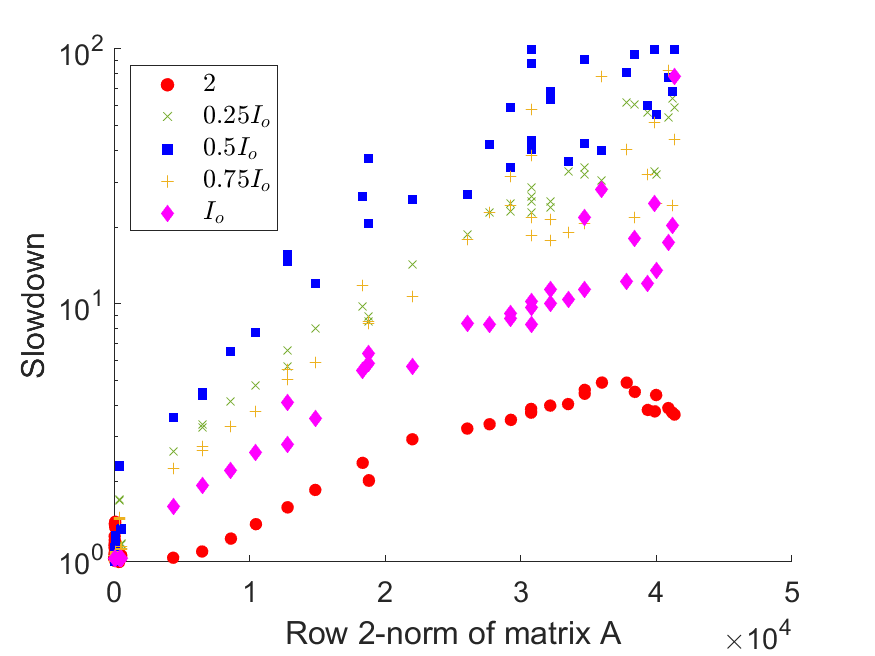
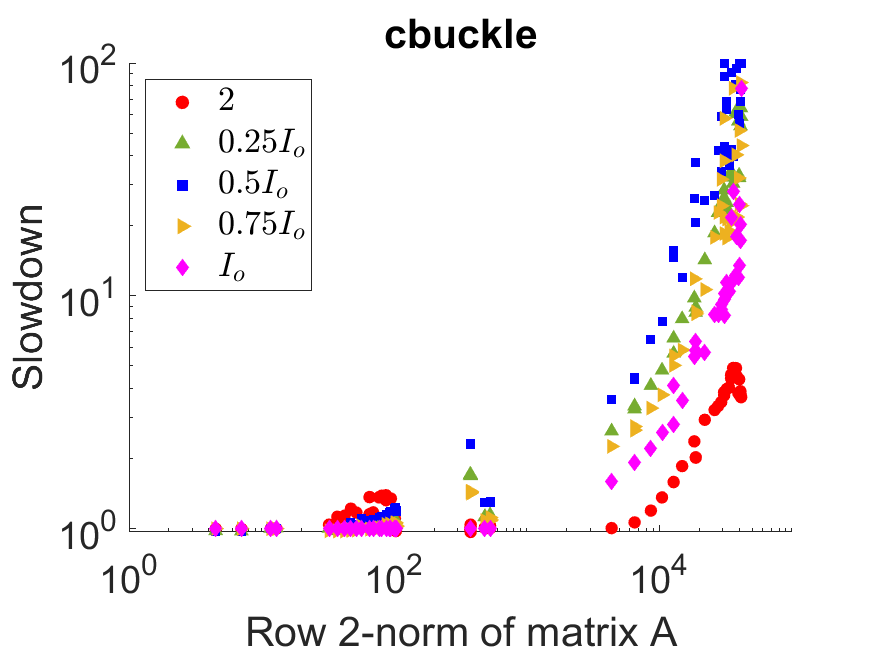
modified code and figure

diff --git a/Step6_correlate.m b/Step6_correlate.m
@@ -14,6 +14,7 @@ color = 'b';
 % matrices = {'bcsstk18'};
 % matrices = {'bcsstk18', 'thermal1', 'ct20stif', 'cbuckle'}; 
 matrices = {'cbuckle'};
+%matrices = {'bcsstk18'};
 num_matrices = length(matrices);
 
 % bitflip_iter = 1;
@@ -121,7 +122,7 @@ for m = 1:num_matrices
     hold on;
     disp_names = {'$2$', '$0.25I_o$', '$0.5I_o$', '$0.75I_o$', '$I_o$'}; 
     colors = {'r'; '#77AC30'; 'b'; '#EDB120'; 'm'};
-    markers = ['o'; 'x'; 's'; '+'; 'd']; 
+    markers = ['o'; '^'; 's'; '>'; 'd']; 
     index = 0;
     for i = injections
         index=index+1;
@@ -137,12 +138,14 @@ for m = 1:num_matrices
         %colororder(['r'; 'g'; 'b'; 'k'; 'm']);
 
         scatter(A_row_2norms, converge_ratios, mrk_size, markers(index), MarkerFaceColor=char(colors(index)), MarkerEdgeColor=char(colors(index)));
-        %set(gca,'xscale','log');
+        set(gca,'xscale','log');
         set(gca,'yscale','log');
+        set(gca, 'XTick', [1, 100, 10000]);
+        %set(gca, 'XTick', [1, 10^5, 10^10]);
         xlabel('Row 2-norm of matrix A');
         ylabel('Slowdown');
-        %title(matrixname, 'interpreter', 'latex');
-        set(gca,'FontSize',14);
+        title(matrixname, 'interpreter', 'none');
+        set(gca,'FontSize',18);
         legend(disp_names, Location="northwest", Interpreter="latex");
         figure_filename = ['./figures/', matrixname, '/', comments, '_', matrixname, '_row2norm'];
         print(figure_filename, '-dpng');

diff --git a/Step6_histogram.m b/Step6_histogram.m
@@ -11,7 +11,8 @@ color = 'b';
 %    'Trefethen_20000', 'vanbody','wathen100'};
 % matrices = {'bcsstk18'};
 % matrices = {'bcsstk18', 'thermal1', 'ct20stif', 'cbuckle'}; 
-matrices = {'bcsstk18', 'bodyy5', 'cbuckle', 'G2_circuit'};
+%matrices = {'bcsstk18', 'bodyy5', 'cbuckle', 'G2_circuit'};
+matrices = {'bcsstk18', 'cbuckle'};
 num_matrices = length(matrices);
 
 % bitflip_iter = 110;
@@ -42,17 +43,17 @@ for m = 1:num_matrices
 
     %% plot histograms
     figure;
-    histogram(converge_ratios, 'NumBins', 20, 'DisplayName',num2str(bitflip_iter));
+    histogram(converge_ratios, 'NumBins', 50, 'Normalization','probability');
     title(matrixname, 'interpreter', 'none');
     %set(gca,'xscale','log');
     xlabel('Slowdown');
-    ylabel('Number of Experiments');
+    ylabel('Frequency (normalized)');
     % legend();
-    set(gca,'FontSize',15);
+    set(gca,'FontSize',18);
     hold off;
     figure_filename = ['./figures/', matrixname, '/', comments, '_', matrixname, '_bitflip_iter=', num2str(bitflip_iter)];
     print(figure_filename, '-dpng');
-    close all;
+    %close all;
 
     end
 end

diff --git a/Step6_impact.m b/Step6_impact.m
@@ -12,6 +12,7 @@ color = 'b';
 % matrices = {'bcsstk18'};
 % matrices = {'bcsstk18', 'thermal1', 'ct20stif', 'cbuckle'}; 
 matrices = {'cbuckle'};
+%matrices = {'bcsstk18'};
 num_matrices = length(matrices);
 
 % bitflip_iter = 110;
@@ -93,12 +94,12 @@ for m = 1:num_matrices
         % plot sorted
         hold on;
         plot(sort(converge_ratios), 'DisplayName', char(disp_names(index)), 'LineWidth', 2, 'Color', char(colors(index)));
-        %title(matrixname, 'interpreter', 'none');
+        title(matrixname, 'interpreter', 'none');
         set(gca,'yscale','log');
         xlabel('Runs');
         ylabel('Slowdown');
         legend(Location="northwest", Interpreter="latex");
-        set(gca,'FontSize',14);
+        set(gca,'FontSize',18);
         % hold off;
         comments = 'impact_sorted';
         figure_filename = ['./figures/', matrixname, '/', comments, '_', matrixname];
